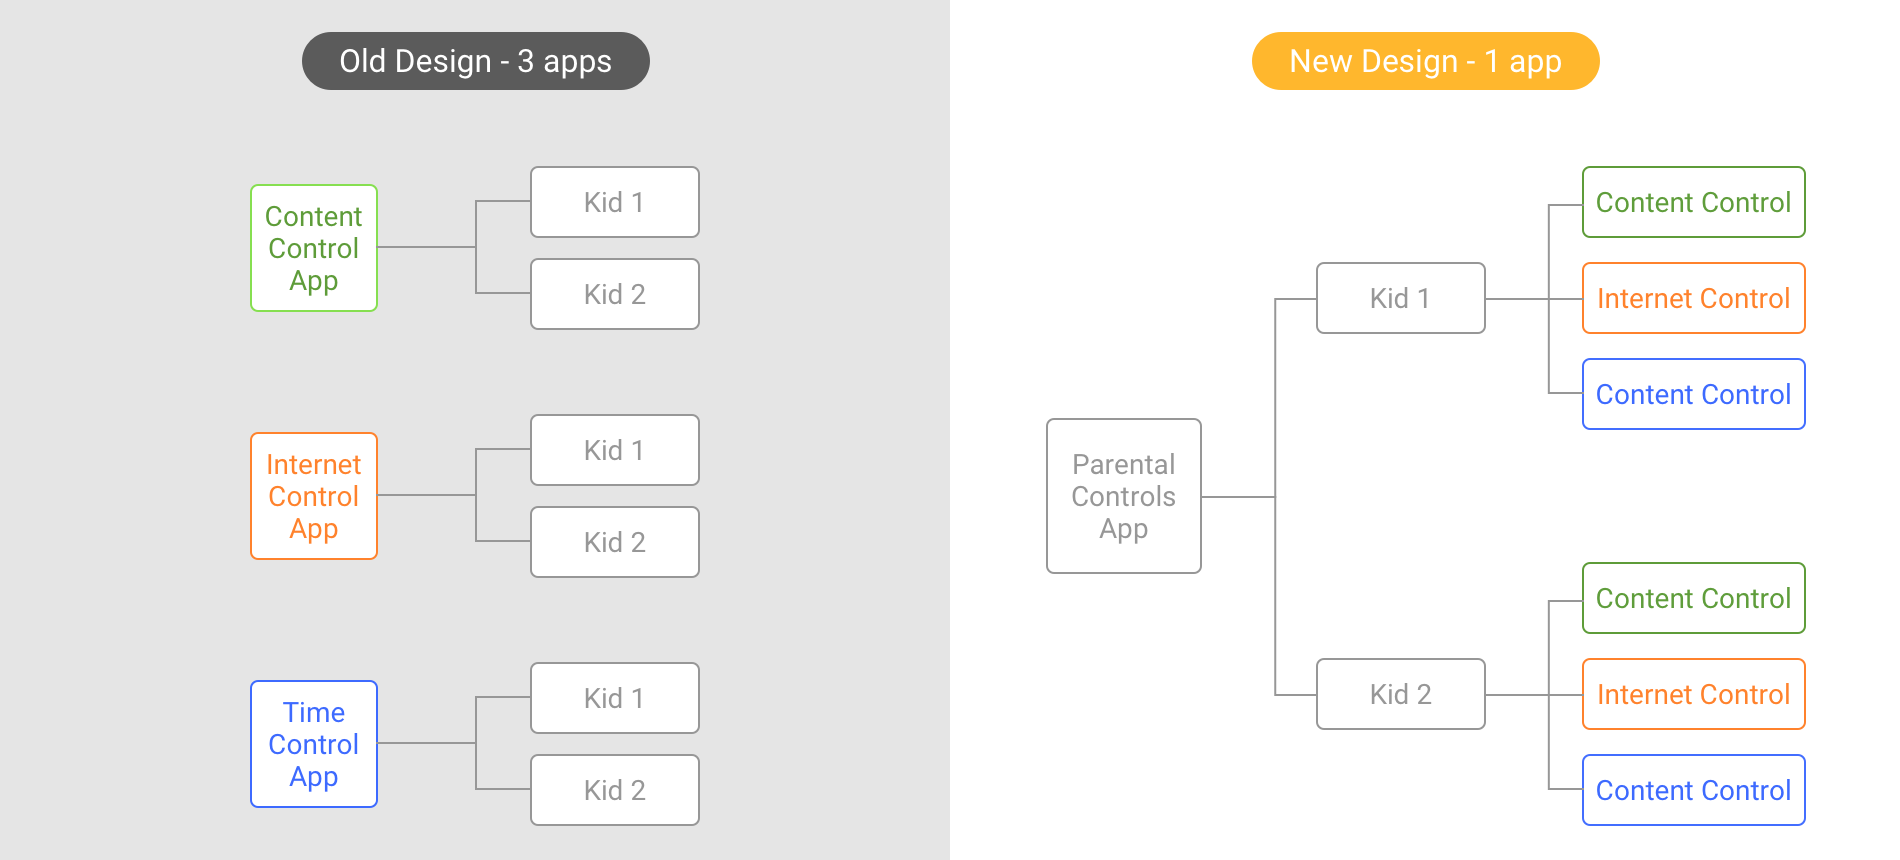
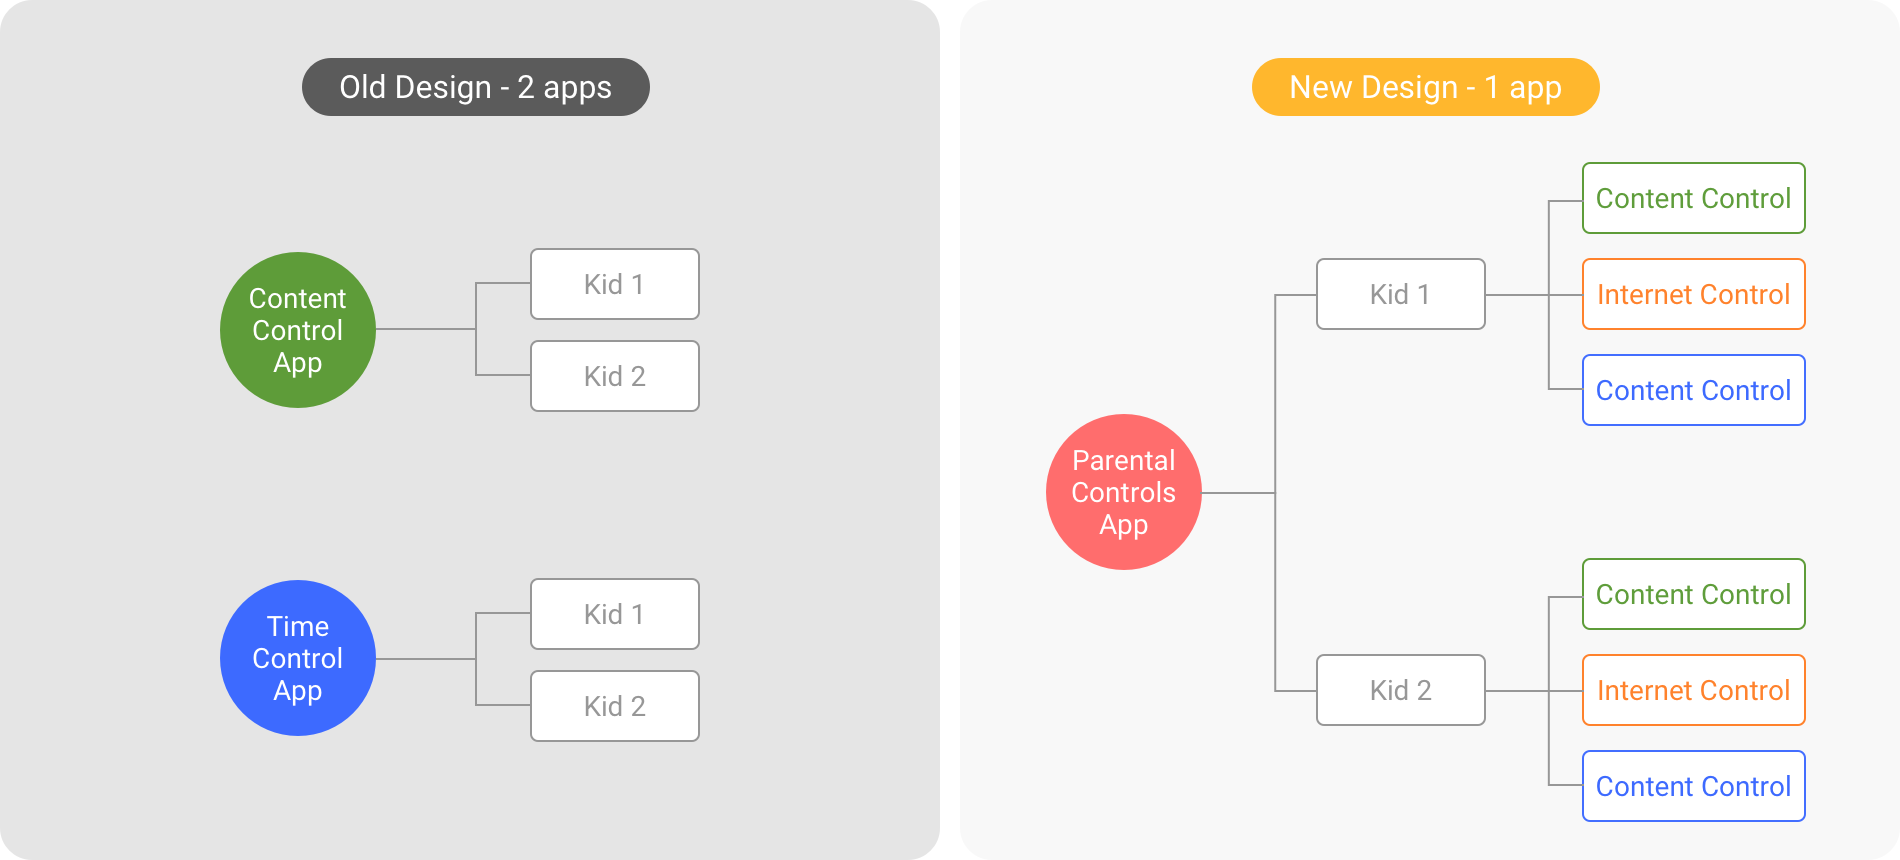
Updated the parental control IA

diff --git a/parental.html b/parental.html
@@ -105,7 +105,7 @@
         <h2 id="list-item-3"><span class="headingTag">Information Architecture</span><br>
           Integrating Everyting Into One App</h2>
         <div class="mySectionGroup">
-          <div class="genScreenshot"><img src="images/parental/parental_IA.png"/><p>The old version of Parental Controls was composed of three separate standalone applications, making maintenance a difficult process.</p></div>
+          <div class="genScreenshot"><img src="images/parental/parental_IA.png"/><p>The old version of Parental Controls was composed of 2 separate standalone applications, making maintenance a difficult process.</p></div>
           <h2 id="list-item-4"><span class="headingTag">Design Considerations</span><br>
             Making Key Components Easily Accessible</h2>
           <div class="genScreenshot"><img src="images/parental/parental_function.png"/></div>
